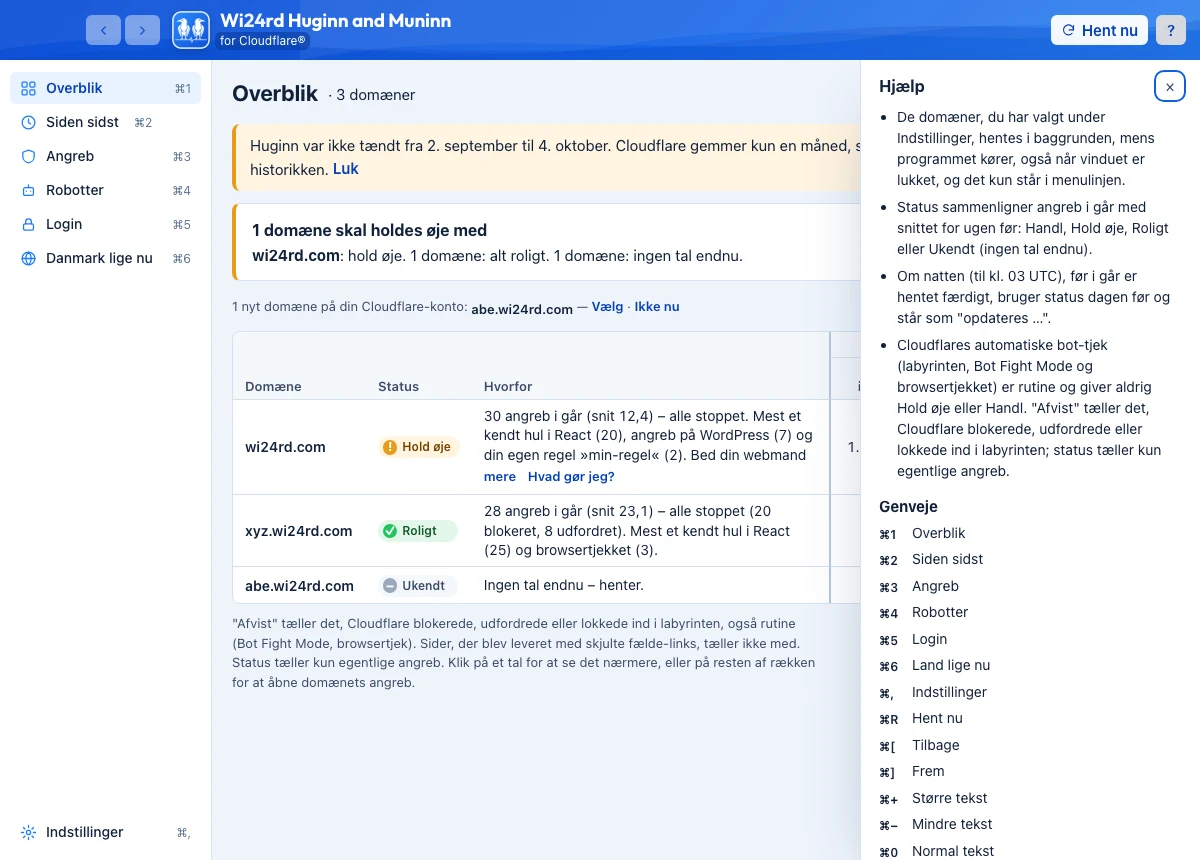
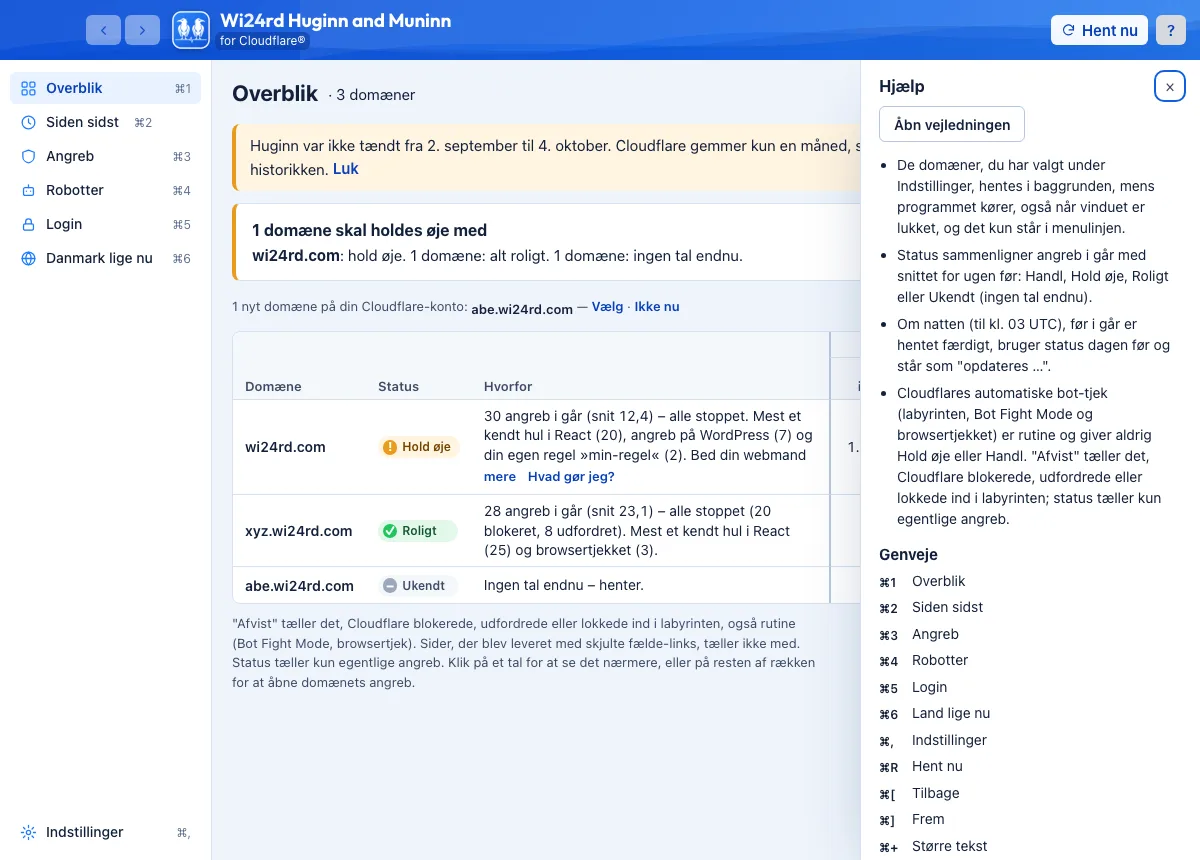
Vejledningen åbner forsiden, knappen øverst i hjælpen, Vis over trafikken og Cloudflares nye ord
Åbn vejledningen åbner manualens forside på wi24rd.com og står øverst
i hjælpen. Vis står samme sted på alle Angreb-sider. Fejltekster og
manualen bruger Zone › Read, Analytics › Read og Include, som
Cloudflares token-side viser nu.

Changed region(s): [[0.7092, 0.1209, 0.9867, 0.9977]]

diff --git a/ui/assets/sprog.js b/ui/assets/sprog.js
@@ -180,8 +180,8 @@
         token_tomt: 'Feltet er tomt. Indsæt dit API Token.',
         token_form: 'Det indsatte ligner ikke et API Token fra Cloudflare (kun bogstaver, tal og tegn uden mellemrum).',
         token_inaktiv: 'API Tokenet er ikke aktivt (status: {detalje}). Opret et nyt API Token, der kun kan læse.',
-        mangler_zone: 'API Tokenet kan ikke se nogen domæner: det mangler rettigheden Zone › Zone › Read, eller domænet står ikke under Zone Resources.',
-        mangler_analytics: 'API Tokenet mangler rettigheden Zone › Analytics › Read, så programmet kan ikke læse tallene.',
+        mangler_zone: 'API Tokenet kan ikke se nogen domæner: det mangler rettigheden Zone › Read, eller domænet står ikke under Include · All zones eller Specific zone.',
+        mangler_analytics: 'API Tokenet mangler rettigheden Analytics › Read, så programmet kan ikke læse tallene.',
         ugyldig_zone: 'Ugyldigt zone-id.', ugyldig_dato: 'Ugyldig dato.', ugyldigt_filter: 'Filteret i adressen kan ikke bruges.', for_mange_stier: 'Du kan højst have 20 egne login-stier pr. domæne. Fjern en, før du tilføjer en ny.',
         noegle: 'Nøgleringen kunne ikke bruges.',
         lager: 'Den lokale database kunne ikke bruges.',
@@ -221,7 +221,7 @@
       dykTrafikH: 'Trafik den {v}', dykTrafikP: 'Her står forespørgslerne, ikke det, Cloudflare stoppede.', trafikIAlt: 'Forespørgsler', trafikNormalt: 'normalt {m}', trafikStoppet: 'Cloudflare stoppede', trafikLande: 'Besøgende pr. land', trafikStatus: 'Svarkoder', trafikRobotter: 'Robotter', trafikEtLand: '{p} kom fra ét land ({land}).', trafik52: '{p} fik 52x (din server svarede ikke).', trafikKode: '{p} fik svaret {k}.', trafikRobot: 'De fleste var robotten {r}.', trafikIngenEkstra: 'Tal for lande og svarkoder er ikke hentet for dagen endnu.', trafikTomt: 'Ingen tal for dagen.',
       tek: TEK,
       hvIkkeBrugt: '{n} angreb på {t}, som du ikke bruger — ufarlige for dig.', hvUventet: 'Uventet: din server svarede på en {t}-sti. Bruger du alligevel {t}?', hvNaaet: '{n} angreb på {t} nåede din server, og du har sagt, at du bruger {t}.', hvBesked: 'Flere angreb på {t} end normalt: {n} (snit {s}).', hvSpoerg: 'Bruger du ikke {t}? Sig det her',
-      tekH: 'Dit sites teknologi', tekP: 'Angreb på noget, sitet ikke kører, kan ikke ramme det. Sig, hvad du bruger, så vejer angrebene rigtigt i status og advarsler. Tallene ændrer sig ikke: alle angreb står stadig i Angreb, på kortet og i dyk.', tekVedIkke: 'Ved ikke', tekBesked: 'Giv mig besked', tekBeskedNote: 'Når der er flere angreb på {t} end normalt, uanset niveauet for notifikationer.', tekForsoeg: '{n} {n|forsøg|forsøg} på 30 dage', tekForslagJa: 'sæt til »Bruger ikke«?', tekGeneriskH: 'Altid relevant', tekGeneriskP: 'Hemmeligheder, kildekode og login er ikke en teknologi, du kan fravælge.',
+      tekH: 'Dit sites teknologi', tekP: 'Angreb på noget, sitet ikke kører, kan ikke ramme det. Sig, hvad du bruger, så vejer angrebene rigtigt i status og advarsler. Tallene ændrer sig ikke: alle angreb står stadig i Angreb og på kortet.', tekVedIkke: 'Ved ikke', tekBesked: 'Giv mig besked', tekBeskedNote: 'Når der er flere angreb på {t} end normalt, uanset niveauet for notifikationer.', tekForsoeg: '{n} {n|forsøg|forsøg} på 30 dage', tekForslagJa: 'sæt til »Bruger ikke«?', tekGeneriskH: 'Altid relevant', tekGeneriskP: 'Hemmeligheder, kildekode og login er ikke en teknologi, du kan fravælge.',
       hulLinje: 'Huginn var ikke tændt fra {a} til {b}. Cloudflare gemmer kun en måned, så {n} {n|dag|dage} mangler for altid i historikken.', hulLinjeIntet: 'Huginn var ikke tændt fra {a} til {b}. Cloudflare havde stadig tallene, så intet mangler.', hulLuk: 'Luk', hulLukLabel: 'Luk linjen om hullet fra {a} til {b}', dagMed: '{m} af {n} {n|dag|dage}', hulNote: 'Tallene dækker {m} af {n} {n|dag|dage}. Resten er ikke hentet: ingen data — Huginn var slukket.', hulIngen: 'ingen data', hulListeH: 'Huller i historikken', hulListeP: 'Dage uden tal. De er ikke 0: de er aldrig hentet.',
       datoFra: 'Fra', datoTil: 'Til', datoNulstil: 'Nulstil', datoNulstilLabel: 'Nulstil til hele historikken', datoNote: 'Hele døgn i UTC. Tidspunkt på dagen gemmes ikke.', datoFejl: '»Fra« skal ligge før eller på »Til«.',
       regelStier: 'Bankede på', regelFra: 'Fra', regelFoerst: 'Først set {d}, sidst {s}', dykReglerH: 'Reglerne, der slog til — {u}', dykKortN: 'i perioden',
@@ -246,7 +246,7 @@
       koePause: 'Cloudflare svarer ikke lige nu – prøver igen kl. {kl}.', koePauseNet: 'Ingen forbindelse til Cloudflare – prøver igen kl. {kl}.',
       koeFaerdig: 'Alle domæner er hentet (sidst {t}).', koeFaerdigFejl: 'Hentet (sidst {t}). {n} kunne ikke hentes: {f}',
       koeFejl: 'Hentningen i baggrunden er stoppet: {f}', koeFremskridt: 'Fremskridt for hentningen i baggrunden',
-      henterZoner: 'Henter dine zoner …', ingenZoner: 'API Tokenet kan ikke se nogen zoner. Tjek, at det har rettigheden Zone > Zone > Read.',
+      henterZoner: 'Henter dine zoner …', ingenZoner: 'API Tokenet kan ikke se nogen zoner. Tjek, at det har rettigheden Zone › Read.',
       gemteZonerNet: 'Ingen forbindelse til Cloudflare – viser dine gemte zoner fra {t}', gemteZoner: '{f} Viser dine gemte zoner fra {t}.',
       // Siden sidst
       sidenH: 'Siden sidst', sidenVist: 'Status for i går. Du kiggede her sidst {t}.', sidenFoerste: 'Status for i går på alle dine domæner.',
@@ -474,8 +474,8 @@
         token_tomt: 'The field is empty. Paste your API Token.',
         token_form: 'What was pasted does not look like a Cloudflare API Token (only letters, digits and symbols without spaces).',
         token_inaktiv: 'The API Token is not active (status: {detalje}). Create a new read-only API Token.',
-        mangler_zone: 'The API Token cannot see any domains: it lacks the permission Zone › Zone › Read, or the domain is not under Zone Resources.',
-        mangler_analytics: 'The API Token lacks the permission Zone › Analytics › Read, so the program cannot read the figures.',
+        mangler_zone: 'The API Token cannot see any domains: it lacks the permission Zone › Read, or the domain is not under Include · All zones or Specific zone.',
+        mangler_analytics: 'The API Token lacks the permission Analytics › Read, so the program cannot read the figures.',
         ugyldig_zone: 'Invalid zone ID.', ugyldig_dato: 'Invalid date.', ugyldigt_filter: 'The filter in the address cannot be used.', for_mange_stier: 'You can have at most 20 login paths of your own per domain. Remove one before adding a new one.',
         noegle: 'The keychain could not be used.',
         lager: 'The local database could not be used.',
@@ -513,7 +513,7 @@
       dykTrafikH: 'Traffic on {v}', dykTrafikP: 'These are the requests, not what Cloudflare stopped.', trafikIAlt: 'Requests', trafikNormalt: 'normally {m}', trafikStoppet: 'Stopped by Cloudflare', trafikLande: 'Visitors by country', trafikStatus: 'Response codes', trafikRobotter: 'Robots', trafikEtLand: '{p} came from one country ({land}).', trafik52: '{p} got 52x (your server did not answer).', trafikKode: '{p} got the response {k}.', trafikRobot: 'Most were the robot {r}.', trafikIngenEkstra: 'Figures for countries and response codes have not been fetched for the day yet.', trafikTomt: 'No figures for the day.',
       tek: TEK,
       hvIkkeBrugt: '{n} {n|attack|attacks} on {t}, which you do not use — harmless to you.', hvUventet: 'Unexpected: your server answered on a {t} path. Do you use {t} after all?', hvNaaet: '{n} {n|attack|attacks} on {t} reached your server, and you have said you use {t}.', hvBesked: 'More attacks on {t} than usual: {n} (average {s}).', hvSpoerg: 'Not using {t}? Say so here',
-      tekH: 'Your site’s technology', tekP: 'Attacks on something the site does not run cannot hit it. Say what you use, so the attacks weigh correctly in status and warnings. The figures do not change: all attacks still stand in Attacks, on the map and in the drill-down.', tekVedIkke: 'Don’t know', tekBesked: 'Notify me', tekBeskedNote: 'When there are more attacks on {t} than usual, whatever the notification level.', tekForsoeg: '{n} {n|attempt|attempts} in 30 days', tekForslagJa: 'set to “Does not use”?', tekGeneriskH: 'Always relevant', tekGeneriskP: 'Secrets, source code and login are not a technology you can opt out of.',
+      tekH: 'Your site’s technology', tekP: 'Attacks on something the site does not run cannot hit it. Say what you use, so the attacks weigh correctly in status and warnings. The figures do not change: all attacks still stand in Attacks and on the map.', tekVedIkke: 'Don’t know', tekBesked: 'Notify me', tekBeskedNote: 'When there are more attacks on {t} than usual, whatever the notification level.', tekForsoeg: '{n} {n|attempt|attempts} in 30 days', tekForslagJa: 'set to “Does not use”?', tekGeneriskH: 'Always relevant', tekGeneriskP: 'Secrets, source code and login are not a technology you can opt out of.',
       hulLinje: 'Huginn was not on from {a} to {b}. Cloudflare keeps only a month, so {n} {n|day is|days are} missing for good from the history.', hulLinjeIntet: 'Huginn was not on from {a} to {b}. Cloudflare still had the figures, so nothing is missing.', hulLuk: 'Close', hulLukLabel: 'Close the line about the gap from {a} to {b}', dagMed: '{m} of {n} {n|day|days}', hulNote: 'The figures cover {m} of {n} {n|day|days}. The rest were not fetched: no data — Huginn was off.', hulIngen: 'no data', hulListeH: 'Gaps in the history', hulListeP: 'Days without figures. They are not 0: they were never fetched.',
       datoFra: 'From', datoTil: 'To', datoNulstil: 'Reset', datoNulstilLabel: 'Reset to all history', datoNote: 'Whole days in UTC. The time of day is not saved.', datoFejl: '“From” must be on or before “To”.',
       regelStier: 'Knocked on', regelFra: 'From', regelFoerst: 'First seen {d}, last {s}', dykReglerH: 'The rules that fired — {u}', dykKortN: 'in this view',
@@ -538,7 +538,7 @@
       koePause: 'Cloudflare is not answering right now – trying again at {kl}.', koePauseNet: 'No connection to Cloudflare – trying again at {kl}.',
       koeFaerdig: 'All domains are fetched (last {t}).', koeFaerdigFejl: 'Fetched (last {t}). {n} could not be fetched: {f}',
       koeFejl: 'Fetching in the background has stopped: {f}', koeFremskridt: 'Progress of the background fetching',
-      henterZoner: 'Fetching your zones …', ingenZoner: 'The API Token cannot see any zones. Check that it has the Zone > Zone > Read permission.',
+      henterZoner: 'Fetching your zones …', ingenZoner: 'The API Token cannot see any zones. Check that it has the Zone › Read permission.',
       gemteZonerNet: 'No connection to Cloudflare – showing your saved zones from {t}', gemteZoner: '{f} Showing your saved zones from {t}.',
       sidenH: 'Since last time', sidenVist: 'Yesterday’s status. You last looked here {t}.', sidenFoerste: 'Yesterday’s status for all your domains.',
       sidenGroenne: '{n}: nothing unusual', sidenRoligt: 'All quiet: {n}, {a} {a|attack|attacks} yesterday{b}.', sidenAlleBlok: ', all blocked',

diff --git a/ui/assets/ramme.js b/ui/assets/ramme.js
@@ -101,7 +101,8 @@
     opdaterTitel();
     if (visninger[navn] && visninger[navn].vis) visninger[navn].vis(params, { samme: foer === navn && foerParams === params.toString() });
   }
-  function opdaterTitel() { document.title = S.titel(tilstand.visning); }
+  /* En visning kan låne en anden visnings titel (titel()): Angreb med robotfilter hedder Robotter. */
+  function opdaterTitel() { const v = visninger[tilstand.visning]; document.title = S.titel((v && v.titel && v.titel()) || tilstand.visning); }
   function navTilstand() {
     document.querySelectorAll('#side a[data-visning]').forEach(a => {
       const fri = tilstand.sat || a.getAttribute('data-visning') === 'indstillinger';
@@ -556,18 +557,17 @@
   });
   $('token-form').addEventListener('submit', ev => { ev.preventDefault(); gemNoegle($('token'), $('token-knap'), $('token-status')); });
 
-  /* "Åbn vejledningen": Rust åbner en fast adresse på wi24rd.com i brugerens browser. Herfra sendes kun sproget og manualens side for visningen (sider[].id i docs/manual/manual.json); Rust afviser alt andet. Uden side er det manualens forside. */
-  const VEJLEDNING = { overblik: '40-visninger/overblik', 'siden-sidst': '40-visninger/siden-sidst', vaernet: '40-visninger/vaernet', dyk: '40-visninger/vaernet', robotter: '40-visninger/robotter', login: '40-visninger/login', land: '40-visninger/land', teknologi: '40-visninger/teknologi', indstillinger: '50-indstillinger', opsaetning: '30-opsaetning' };
-  const aabnVejledning = side => (invoke ? invoke('aabn_vejledning', { sprog: S.lang, side: side || null }).catch(() => { }) : null);
+  /* "Åbn vejledningen": Rust åbner manualens forside på wi24rd.com i brugerens browser. Herfra sendes kun sproget. */
+  const aabnVejledning = () => (invoke ? invoke('aabn_vejledning', { sprog: S.lang }).catch(() => { }) : null);
   $('hjaelp-vejledning').setAttribute('aria-label', T.vejledningLabel);
-  $('hjaelp-vejledning').addEventListener('click', () => aabnVejledning(VEJLEDNING[tilstand.visning]));
+  $('hjaelp-vejledning').addEventListener('click', () => aabnVejledning());
 
   /* Et klik på et CVE-nummer: Rust åbner cve.org i brugerens browser (aabn_cve validerer igen). */
   const CVE = /^CVE-[0-9]{4}-[0-9]{4,7}$/;
   const aabnCve = id => (invoke && CVE.test(id) ? invoke('aabn_cve', { id }).catch(() => { }) : null);
 
   window.hmRamme = {
-    aabnCve, erCve: id => CVE.test(String(id)), visVaelger, aabnVejledning, vejledning: VEJLEDNING,
+    aabnCve, erCve: id => CVE.test(String(id)), visVaelger, aabnVejledning,
     tilstand, paa, udsend, antalAbonnenter, registrer, gaaTil, route, titel: opdaterTitel, gemValgte, afvisNye, status, el, fmt, vis, hjaelp,
     platform, mac, invoke, listen, hentNu, henterNu: () => hent.aktiv, hentOverblik, gemNoegle, tidsskift, bekraeft, genbesoeg: () => hist.genbesoeg, glemt: () => status($('token-status'), T.glemt, 'ok'),
   };

diff --git a/ui/assets/visning-vaernet.js b/ui/assets/visning-vaernet.js
@@ -487,8 +487,8 @@
     const filter = liste.length > 0, vurd = et && (har('dag') || !filter);
     if (et && !vurd) skjult.push(L.vurderingNavn);
     if (har('dag') && d.sum) skjult.push(L.soejlerNavn);
-    /* Samme rækkefølge som altid: fliser → fordeling → kort → lister → søjler → regler → resten, og "De seneste" sidst. */
-    const dele = [bjaelke, ...advarsel, ...kunIDag(d, liste), ...trafikLinjer(d), vaelger, ...kunTrafik(d), ...(trafik ? [trafikAfsnit(trafik)] : []), ...hoved(d), ...(har('regel') || har('forsoeg') || erRobot() ? [] : [slagsVaelger(d)]), fliser(d), ...(kunTrafik(d).length ? [] : V.daekning(d.periode)), ...fordeling(d), ...(vurd ? vurdering(d) : [])];
+    /* Samme rækkefølge som altid: datovælger → Vis → trafik og hoved → fliser → fordeling → kort → lister → søjler → regler → resten, og "De seneste" sidst. */
+    const dele = [bjaelke, ...advarsel, ...kunIDag(d, liste), ...trafikLinjer(d), vaelger, ...(har('regel') || har('forsoeg') || erRobot() ? [] : [slagsVaelger(d)]), ...kunTrafik(d), ...(trafik ? [trafikAfsnit(trafik)] : []), ...hoved(d), fliser(d), ...(kunTrafik(d).length ? [] : V.daekning(d.periode)), ...fordeling(d), ...(vurd ? vurdering(d) : [])];
     if (d.loft) dele.push(el('p', { className: 'vg-advarsel vg-gul', textContent: T.dykLoft }));
     if (d.sum) dele.push(...kortBlok(d), ...lister(d), ...soejleBlok(d), ...reglerBlok(d, liste));
     else dele.push(el('p', { className: 'vg-status dyk-tom', textContent: T.dykTomt }), ...reglerBlok(d, liste));
@@ -695,6 +695,7 @@
   R.registrer('vaernet', {
     domaener: true,
     hvad: () => ({ samlet: samlet(), zone: zone(), navn: domaene }),
+    titel: () => (erRobot() ? 'robotter' : 'vaernet'),
     /* Et andet domæne: samme filtre og periode. */
     skift(q) {
       const ny = new URLSearchParams(q);

diff --git a/ui/index.html b/ui/index.html
@@ -300,6 +300,7 @@
 
 <aside class="hjaelp" id="hjaelp" aria-labelledby="hjaelp-h" hidden>
   <div class="hjaelp-top"><h2 id="hjaelp-h" data-t="hjaelpH">Hjælp</h2><button class="luk" type="button" id="hjaelp-luk"><span aria-hidden="true">×</span><span class="sr-only" data-t="hjaelpLuk">Luk hjælpen</span></button></div>
+  <p class="vejledning-plads"><button class="knap" type="button" id="hjaelp-vejledning" data-t="vejledningAabn">Åbn vejledningen</button></p>
   <div class="guide-ramme" id="hjaelp-guide" hidden></div>
   <div id="hjaelp-generelt">
   <div class="hjaelp-del" data-hjaelp="opsaetning">
@@ -352,7 +353,6 @@
   <dl class="genveje" id="genveje"></dl>
   <p data-t="hjCve">Et klik på et CVE-nummer åbner cve.org i din browser.</p>
   <p data-t="hjOm">Version, licenser og varemærke står under Indstillinger → Om.</p>
-  <p class="vejledning-plads"><button class="knap" type="button" id="hjaelp-vejledning" data-t="vejledningAabn">Åbn vejledningen</button></p>
   </div>
 </aside>
 </div>

diff --git a/ui/assets/vg-tegn.js b/ui/assets/vg-tegn.js
@@ -1,4 +1,4 @@
-/* Huginn and Muninn — det, Angreb og dyk tegner ens: kortet, søjlerne, listerne, navnene på lande, datacentre og regler. Alt bygges
+/* Huginn and Muninn — det, Angreb (dyk er en del af Angreb siden V-ANGREB.1) tegner: kortet, søjlerne, listerne, navnene på lande, datacentre og regler. Alt bygges
    med createElement/createElementNS: ingen innerHTML og ingen style-attributter. Tekst står aldrig i SVG'en, men som HTML oven på
    (etiketter og akser), så den har --font-size-xs og følger Tekststørrelse uanset, hvordan tegningen skaleres; søjlerne strækkes
    med preserveAspectRatio="none". Etiketternes plads og listernes bredde er tal, der først kendes her: de står som regler i et eget

diff --git a/ui/assets/app.css b/ui/assets/app.css
@@ -310,6 +310,7 @@ input.kontakt:disabled { opacity: .5; cursor: default; }
 .om p { margin: 0 0 4px; color: var(--color-text-muted); font-size: var(--font-size-sm); }
 .om-kilde { -webkit-user-select: text; user-select: text; font-family: var(--font-mono); }
 .vejledning-plads { margin-top: 12px; }
+.hjaelp-top + .vejledning-plads { margin: 0 0 12px; }
 .dialog { width: min(420px, 90vw); padding: 18px 20px; border: 1px solid var(--color-border); border-radius: var(--card-radius); background: var(--color-surface); color: var(--color-text); box-shadow: var(--shadow-window); }
 .dialog::backdrop { background: var(--color-overlay-pressed); }
 .dialog h2 { margin-bottom: 6px; font-size: var(--font-size-xl); }

diff --git a/src-tauri/src/lib.rs b/src-tauri/src/lib.rs
@@ -1503,48 +1503,20 @@ async fn aabn_api_token() -> Svar<()> {
 /// Manualen på wi24rd.com: forsiden på hvert sprog. Programmet henter intet derfra; adressen åbnes i brugerens browser.
 const VEJLEDNING_DA: &str = "https://wi24rd.com/dokumentation/huginn-muninn/";
 const VEJLEDNING_EN: &str = "https://wi24rd.com/en/docs/huginn-muninn/";
-/// `sider[].id` i `docs/manual/manual.json`. Kun disse kan åbnes; listen læses ikke ved kørsel.
-const VEJLEDNING_SIDER: &[&str] = &[
-    "00-index",
-    "10-foer-du-starter",
-    "20-installation",
-    "30-opsaetning",
-    "31-cloudflare",
-    "50-indstillinger",
-    "60-notifikationer",
-    "70-data",
-    "80-fejlfinding",
-    "85-opdatering",
-    "90-afinstallation",
-    "95-genveje",
-    "99-ordliste",
-    "40-visninger/dyk",
-    "40-visninger/indstillinger",
-    "40-visninger/land",
-    "40-visninger/login",
-    "40-visninger/opsaetning",
-    "40-visninger/overblik",
-    "40-visninger/robotter",
-    "40-visninger/siden-sidst",
-    "40-visninger/teknologi",
-    "40-visninger/vaernet",
-];
-
-/// Adressen på manualen for sproget og eventuelt én side. Et andet sprog end `en` er dansk, som overalt i programmet. Et id uden for listen afvises.
-fn vejledning_adresse(sprog: &str, side: Option<&str>) -> Result<String, Fejl> {
-    let basis = if sprog == "en" { VEJLEDNING_EN } else { VEJLEDNING_DA };
-    match side {
-        None => Ok(basis.to_string()),
-        Some(id) if VEJLEDNING_SIDER.contains(&id) => Ok(format!("{basis}{id}/")),
-        Some(_) => Err(Fejl::UgyldigtFilter),
+/// Adressen på manualens forside for sproget. Et andet sprog end `en` er dansk, som overalt i programmet. Sproget vælger kun mellem de to faste adresser.
+fn vejledning_adresse(sprog: &str) -> &'static str {
+    if sprog == "en" {
+        VEJLEDNING_EN
+    } else {
+        VEJLEDNING_DA
     }
 }
 
-/// "Åbn vejledningen": manualen i brugerens browser. Faste adresser; webvisningen vælger kun sprog og et id fra listen.
+/// "Åbn vejledningen": manualens forside i brugerens browser. Faste adresser; webvisningen vælger kun sproget.
 #[tauri::command]
-async fn aabn_vejledning(sprog: String, side: Option<String>) -> Svar<()> {
-    let url = vejledning_adresse(&sprog, side.as_deref())?;
-    tauri::async_runtime::spawn_blocking(move || aabn_i_browser(&url))
+async fn aabn_vejledning(sprog: String) -> Svar<()> {
+    let url = vejledning_adresse(&sprog);
+    tauri::async_runtime::spawn_blocking(move || aabn_i_browser(url))
         .await
         .map_err(|_| Fejl::Intern)?
         .map_err(|_| Fejl::Intern)
@@ -1996,59 +1968,24 @@ mod tests {
     }
 
     #[test]
-    fn vejledningen_aabner_kun_faste_adresser_paa_wi24rd_com() {
-        assert_eq!(
-            vejledning_adresse("da", None).unwrap(),
-            "https://wi24rd.com/dokumentation/huginn-muninn/"
-        );
-        assert_eq!(vejledning_adresse("en", None).unwrap(), "https://wi24rd.com/en/docs/huginn-muninn/");
-        assert_eq!(
-            vejledning_adresse("da", Some("40-visninger/vaernet")).unwrap(),
-            "https://wi24rd.com/dokumentation/huginn-muninn/40-visninger/vaernet/"
-        );
-        assert_eq!(
-            vejledning_adresse("en", Some("50-indstillinger")).unwrap(),
-            "https://wi24rd.com/en/docs/huginn-muninn/50-indstillinger/"
-        );
-        for sprog in ["da", "en", "xx"] {
-            for side in VEJLEDNING_SIDER {
-                let u = Url::parse(&vejledning_adresse(sprog, Some(side)).unwrap()).unwrap();
-                assert_eq!((u.scheme(), u.host_str()), ("https", Some("wi24rd.com")));
-            }
+    fn vejledningen_aabner_forsiden_paa_sproget() {
+        assert_eq!(vejledning_adresse("da"), "https://wi24rd.com/dokumentation/huginn-muninn/");
+        assert_eq!(vejledning_adresse("en"), "https://wi24rd.com/en/docs/huginn-muninn/");
+    }
+
+    #[test]
+    fn vejledningens_vaert_er_altid_wi24rd_com() {
+        for sprog in ["da", "en", "", "xx", "../evil", "https://evil.example/"] {
+            let u = Url::parse(vejledning_adresse(sprog)).unwrap();
+            assert_eq!((u.scheme(), u.host_str()), ("https", Some("wi24rd.com")), "{sprog}");
         }
     }
 
     #[test]
-    fn vejledningen_afviser_alt_uden_for_listen() {
-        for side in [
-            "",
-            "ukendt",
-            "../../evil",
-            "40-visninger/vaernet/../..",
-            "//evil.example/",
-            "https://evil.example/",
-            "40-visninger/vaernet?x=1",
-            "40-visninger/VAERNET",
-        ] {
-            assert!(matches!(vejledning_adresse("da", Some(side)), Err(Fejl::UgyldigtFilter)), "{side}");
-            assert!(matches!(vejledning_adresse("en", Some(side)), Err(Fejl::UgyldigtFilter)), "{side}");
+    fn vejledningen_bruger_ikke_sproget_i_adressen() {
+        for sprog in ["xx", "../evil", "40-visninger/vaernet"] {
+            assert_eq!(vejledning_adresse(sprog), VEJLEDNING_DA, "{sprog}");
         }
-    }
-
-    #[test]
-    fn vejledningens_liste_er_manualens_sider() {
-        let manual: serde_json::Value = serde_json::from_str(include_str!("../../docs/manual/manual.json")).unwrap();
-        let mut ids: Vec<&str> = manual["sider"]
-            .as_array()
-            .unwrap()
-            .iter()
-            .map(|s| s["id"].as_str().unwrap())
-            .collect();
-        let mut her = VEJLEDNING_SIDER.to_vec();
-        ids.sort_unstable();
-        ids.dedup();
-        her.sort_unstable();
-        assert_eq!(her, ids);
     }
 
     #[test]

diff --git a/CHANGELOG.md b/CHANGELOG.md
@@ -15,7 +15,7 @@ Udgivelser er endnu ikke tagget. Posterne står efter dato, nyeste først.
 - Angreb og dyk er samlet på én side. Overskriften siger fx "Angreb · wi24rd.com", og siden har altid datovælger, **7 dage** (standard) / **30 dage**, **Vis** og filtre som chips med × og **Nulstil**.
 - Et klik på et tal, et land, en regel eller en sti forudindstiller perioden og filtret på samme side, og tilbage og frem virker som før.
 - Alle afsnit fra begge visninger følger perioden og filtrene. Det gælder også "Hvad de ledte efter", mails og tabellen under søjlerne. Et afsnit, der ikke kan følge et filter, står ikke, og en linje siger hvilke.
-- Dage med usædvanlig meget trafik er afsnittet "Trafik den …" på samme side.
+- Dage med usædvanlig meget trafik er afsnittet "Trafik den …" på samme side, under **Vis**.
 - Domænevælgeren beholder filtre og periode, når du skifter domæne.
 - Gamle `#dyk?…`-adresser lander på samme sted i Angreb.
 - README har et eget afsnit om Angreb, og manualens kapitel er skrevet om.
@@ -24,13 +24,14 @@ Udgivelser er endnu ikke tagget. Posterne står efter dato, nyeste først.
 
 ### 2026-11-07 23:30 — Knappen Åbn vejledningen
 #### Tilføjet
-- **Åbn vejledningen** nederst i hjælpen (**?**) åbner manualens side for den visning, du står i, i din browser. Under **Indstillinger → Om** åbner den manualens forside.
-- Adressen følger sproget og står kun i Rust. Webvisningen vælger kun sprog og en side fra en fast liste, og programmet henter intet derfra.
+- **Åbn vejledningen** øverst i hjælpen (**?**) og under **Indstillinger → Om** åbner manualens forside i din browser.
+- Adressen følger sproget og står kun i Rust. Webvisningen sender kun sproget, og programmet henter intet derfra.
 
 ### 2026-11-07 23:30 — Trinene til API Token følger Cloudflares nye side
 #### Ændret
 - "Sådan opretter du et API Token" har nu seks trin med Cloudflares ord: Create Token, Policies, Zone › Read, Analytics › Read, Include · All zones, No expiration og Continue to summary. Knappen åbner formularen færdigudfyldt, så de overflødige trin er væk.
 - En linje under trinene siger, at felterne er de samme, hvis man selv starter fra Create Token.
+- Fejlteksterne om manglende rettigheder bruger de samme ord: Zone › Read, Analytics › Read og Include · All zones eller Specific zone. Fejlfinding i manualen citerer dem.
 - Manualens kapitel om opsætningen siger ikke længere, at programmets liste bruger ældre ord.
 
 ### 2026-11-07 23:30 — Verdenskort med farver og ét Tab-stop pr. domæne

diff --git a/docs/manual/da/80-fejlfinding.md b/docs/manual/da/80-fejlfinding.md
@@ -23,8 +23,8 @@ Programmet viser kun sine egne fejltekster i klart sprog, aldrig rå tekniske fe
 | **Det indsatte ligner ikke et API Token fra Cloudflare (kun bogstaver, tal og tegn uden mellemrum).** | Der kom noget andet med, fx et mellemrum eller et linjeskift. | Kopiér API Tokenet igen fra Cloudflare, uden andet omkring. |
 | **Cloudflare afviste API Tokenet. Det kan være udløbet eller mangle rettigheder.** | Cloudflare kender ikke tokenet, eller det er udløbet. | Opret et nyt API Token efter [Opsætning](30-opsaetning.md), og indsæt det under **Indstillinger → Forbindelse → Skift API Token…**. |
 | **API Tokenet er ikke aktivt (status: …). Opret et nyt API Token, der kun kan læse.** | Tokenet er deaktiveret eller udløbet hos Cloudflare. | Opret et nyt. |
-| **API Tokenet kan ikke se nogen domæner: det mangler rettigheden Zone › Zone › Read, eller domænet står ikke under Zone Resources.** | Tokenet må ikke se zonelisten, eller ingen zoner er inkluderet. | Ret tokenet hos Cloudflare: **Permissions** skal have `Zone › Zone › Read`, og **Zone Resources** skal inkludere domænet (eller All zones). |
-| **API Tokenet mangler rettigheden Zone › Analytics › Read, så programmet kan ikke læse tallene.** | Tokenet må se zoner, men ikke tal. | Tilføj `Zone › Analytics › Read` hos Cloudflare. |
+| **API Tokenet kan ikke se nogen domæner: det mangler rettigheden Zone › Read, eller domænet står ikke under Include · All zones eller Specific zone.** | Tokenet må ikke se zonelisten, eller ingen zoner er inkluderet. | Ret tokenet hos Cloudflare: under **Policies** skal **DNS & Zones** have **Zone › Read**, og **Include** skal dække domænet (**All zones** eller **Specific zone**). |
+| **API Tokenet mangler rettigheden Analytics › Read, så programmet kan ikke læse tallene.** | Tokenet må se zoner, men ikke tal. | Tilføj **Analytics › Read** under **Analytics & Logs** hos Cloudflare. |
 | **Der er ikke gemt noget API Token. Indsæt dit API Token under Forbind med Cloudflare.** | Nøgleringen har ikke noget token (fx efter **Glem API Token**). | Forbind igen. |
 | **Zonen findes ikke, eller API Tokenet har ikke adgang til den.** | Et domæne er fjernet fra kontoen, eller tokenet ser det ikke længere. | Fravælg domænet under **Indstillinger → Domæner**, eller ret tokenet. |
 

diff --git a/docs/manual/en/80-fejlfinding.md b/docs/manual/en/80-fejlfinding.md
@@ -23,8 +23,8 @@ The program only shows its own error texts in plain language, never raw technica
 | **What was pasted does not look like a Cloudflare API Token (only letters, digits and symbols without spaces).** | Something else came along, such as a space or a line break. | Copy the API Token again from Cloudflare, with nothing around it. |
 | **Cloudflare rejected the API Token. It may have expired or lack permissions.** | Cloudflare does not know the token, or it has expired. | Create a new API Token following [Setup](30-opsaetning.md), and paste it under **Settings → Connection → Change API Token…**. |
 | **The API Token is not active (status: …). Create a new read-only API Token.** | The token is disabled or expired at Cloudflare. | Create a new one. |
-| **The API Token cannot see any domains: it lacks the permission Zone › Zone › Read, or the domain is not under Zone Resources.** | The token may not see the zone list, or no zones are included. | Fix the token at Cloudflare: **Permissions** must have `Zone › Zone › Read`, and **Zone Resources** must include the domain (or All zones). |
-| **The API Token lacks the permission Zone › Analytics › Read, so the program cannot read the figures.** | The token may see zones, but not figures. | Add `Zone › Analytics › Read` at Cloudflare. |
+| **The API Token cannot see any domains: it lacks the permission Zone › Read, or the domain is not under Include · All zones or Specific zone.** | The token may not see the zone list, or no zones are included. | Fix the token at Cloudflare: under **Policies**, **DNS & Zones** must have **Zone › Read**, and **Include** must cover the domain (**All zones** or **Specific zone**). |
+| **The API Token lacks the permission Analytics › Read, so the program cannot read the figures.** | The token may see zones, but not figures. | Add **Analytics › Read** under **Analytics & Logs** at Cloudflare. |
 | **No API Token is saved. Paste your API Token under Connect to Cloudflare.** | The keychain has no token (for example after **Forget API Token**). | Connect again. |
 | **The zone does not exist, or the API Token has no access to it.** | A domain has been removed from the account, or the token no longer sees it. | Clear the domain under **Settings → Domains**, or fix the token. |
 

diff --git a/docs/manual/en/30-opsaetning.md b/docs/manual/en/30-opsaetning.md
@@ -9,8 +9,8 @@ Setup has three steps: create an API Token at Cloudflare, paste it into the prog
 
 An **API Token** is a key you create in your Cloudflare account that lets a program do certain things. The program asks for exactly two permissions, and both can only read:
 
-- `Zone › Analytics › Read` – may read the figures (attacks, traffic, robots).
-- `Zone › Zone › Read` – may see which domains (zones) the account has.
+- **Analytics › Read** (under *Analytics & Logs*) – may read the figures (attacks, traffic, robots).
+- **Zone › Read** (under *DNS & Zones*) – may see which domains (zones) the account has.
 
 That is all. Without write permissions the program cannot change anything at Cloudflare, whatever happens to your computer.
 
@@ -35,7 +35,7 @@ Each step is shown with screenshots in [Create an API Token at Cloudflare – st
 
 The program checks the API Token with Cloudflare and stores it in your computer's keychain (macOS Keychain or Windows Credential Manager). It never leaves the program's Rust part, and the window cannot read it back.
 
-If you get an error text, it is explained in [Troubleshooting](80-fejlfinding.md). The most common ones are that the API Token lacks one of the two permissions, or that the domain is not under **Zone Resources**.
+If you get an error text, it is explained in [Troubleshooting](80-fejlfinding.md). The most common ones are that the API Token lacks one of the two permissions, or that the domain is not included under **Include** (**All zones** or **Specific zone**).
 
 ## Step 3 – Choose domains
 

diff --git a/docs/manual/da/30-opsaetning.md b/docs/manual/da/30-opsaetning.md
@@ -9,8 +9,8 @@ Opsætningen har tre trin: opret et API Token hos Cloudflare, indsæt det i prog
 
 Et **API Token** er en nøgle, du opretter i din Cloudflare-konto, og som giver et program lov til at gøre bestemte ting. Programmet beder om præcis to rettigheder, og begge kan kun læse:
 
-- `Zone › Analytics › Read` – må læse tallene (angreb, trafik, robotter).
-- `Zone › Zone › Read` – må se, hvilke domæner (zoner) kontoen har.
+- **Analytics › Read** (under *Analytics & Logs*) – må læse tallene (angreb, trafik, robotter).
+- **Zone › Read** (under *DNS & Zones*) – må se, hvilke domæner (zoner) kontoen har.
 
 Det er alt. Uden skriverettigheder kan programmet ikke ændre noget hos Cloudflare, uanset hvad der sker med din computer.
 
@@ -35,7 +35,7 @@ Hvert trin er vist med skærmbilleder i [Opret API Token hos Cloudflare – trin
 
 Programmet tjekker API Tokenet hos Cloudflare og gemmer det i din computers nøglering (macOS Nøglering eller Windows Credential Manager). Det forlader aldrig programmets Rust-del, og vinduet kan ikke hente det tilbage.
 
-Får du en fejltekst, står den forklaret i [Fejlfinding](80-fejlfinding.md). De mest almindelige er, at API Tokenet mangler en af de to rettigheder, eller at domænet ikke står under **Zone Resources**.
+Får du en fejltekst, står den forklaret i [Fejlfinding](80-fejlfinding.md). De mest almindelige er, at API Tokenet mangler en af de to rettigheder, eller at domænet ikke er med under **Include** (**All zones** eller **Specific zone**).
 
 ## Trin 3 – Vælg domæner
 
